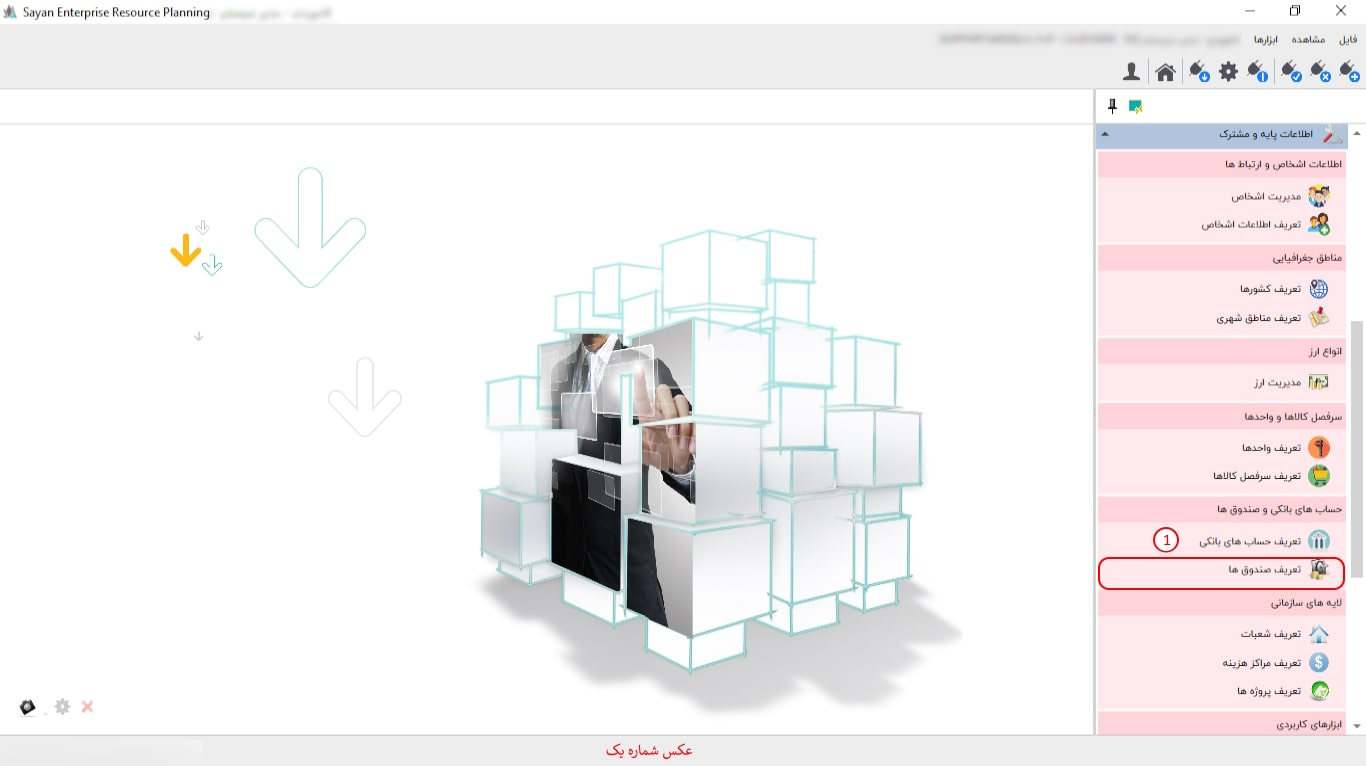
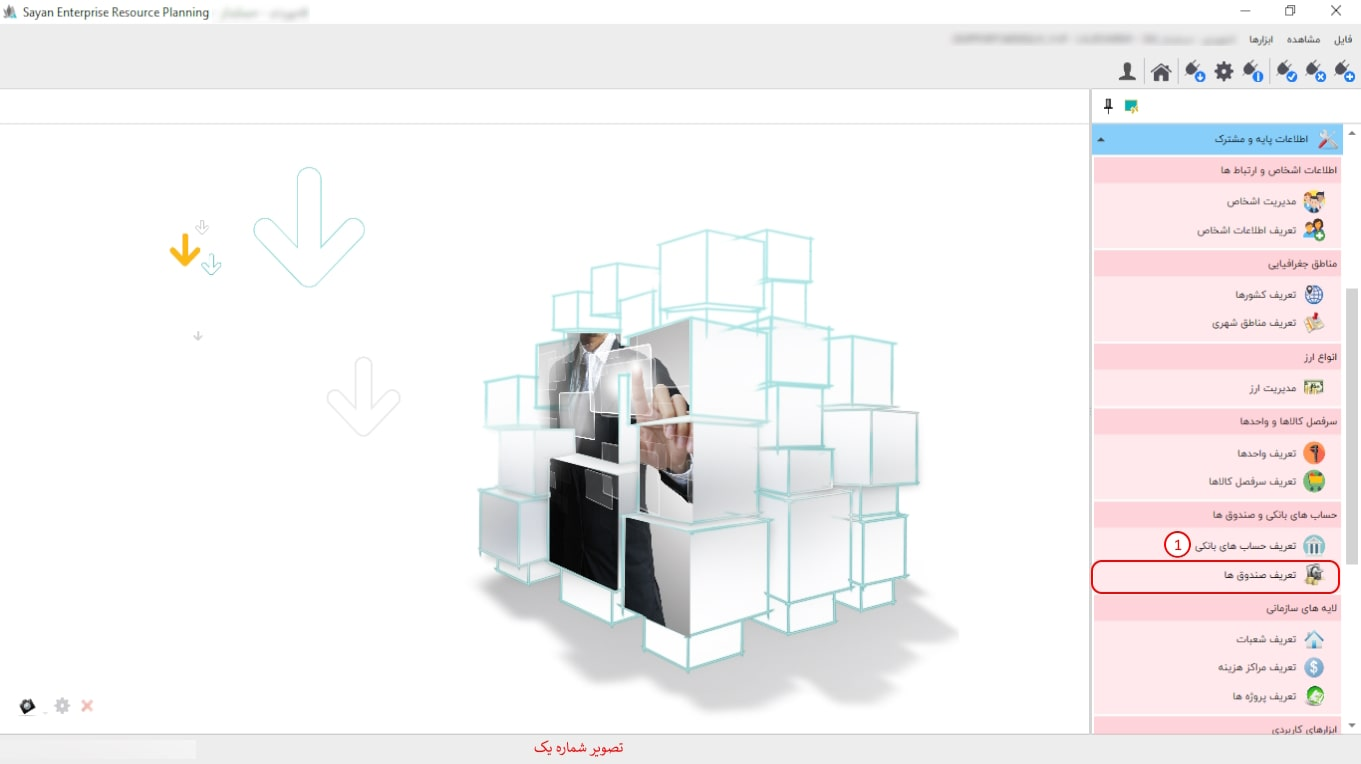
تغییر در عکس

diff --git a/Help/fa-IR/_18_اطلاعات پایه و مشترک/_09_تعریف صندوق ها/Index.html b/Help/fa-IR/_18_اطلاعات پایه و مشترک/_09_تعریف صندوق ها/Index.html
@@ -21,7 +21,7 @@
 	</p>
 	<img class="FitPic" src="l1.jpg" />
 	<p>
-		برای ادامه مطلب به عکس شماره دوم مراجعه نمایید.   
+		برای ادامه مطلب به تصویر شماره دو مراجعه نمایید.   
 	</p>
 	<img class="FitPic" src="l2.jpg" />
 	<p>
